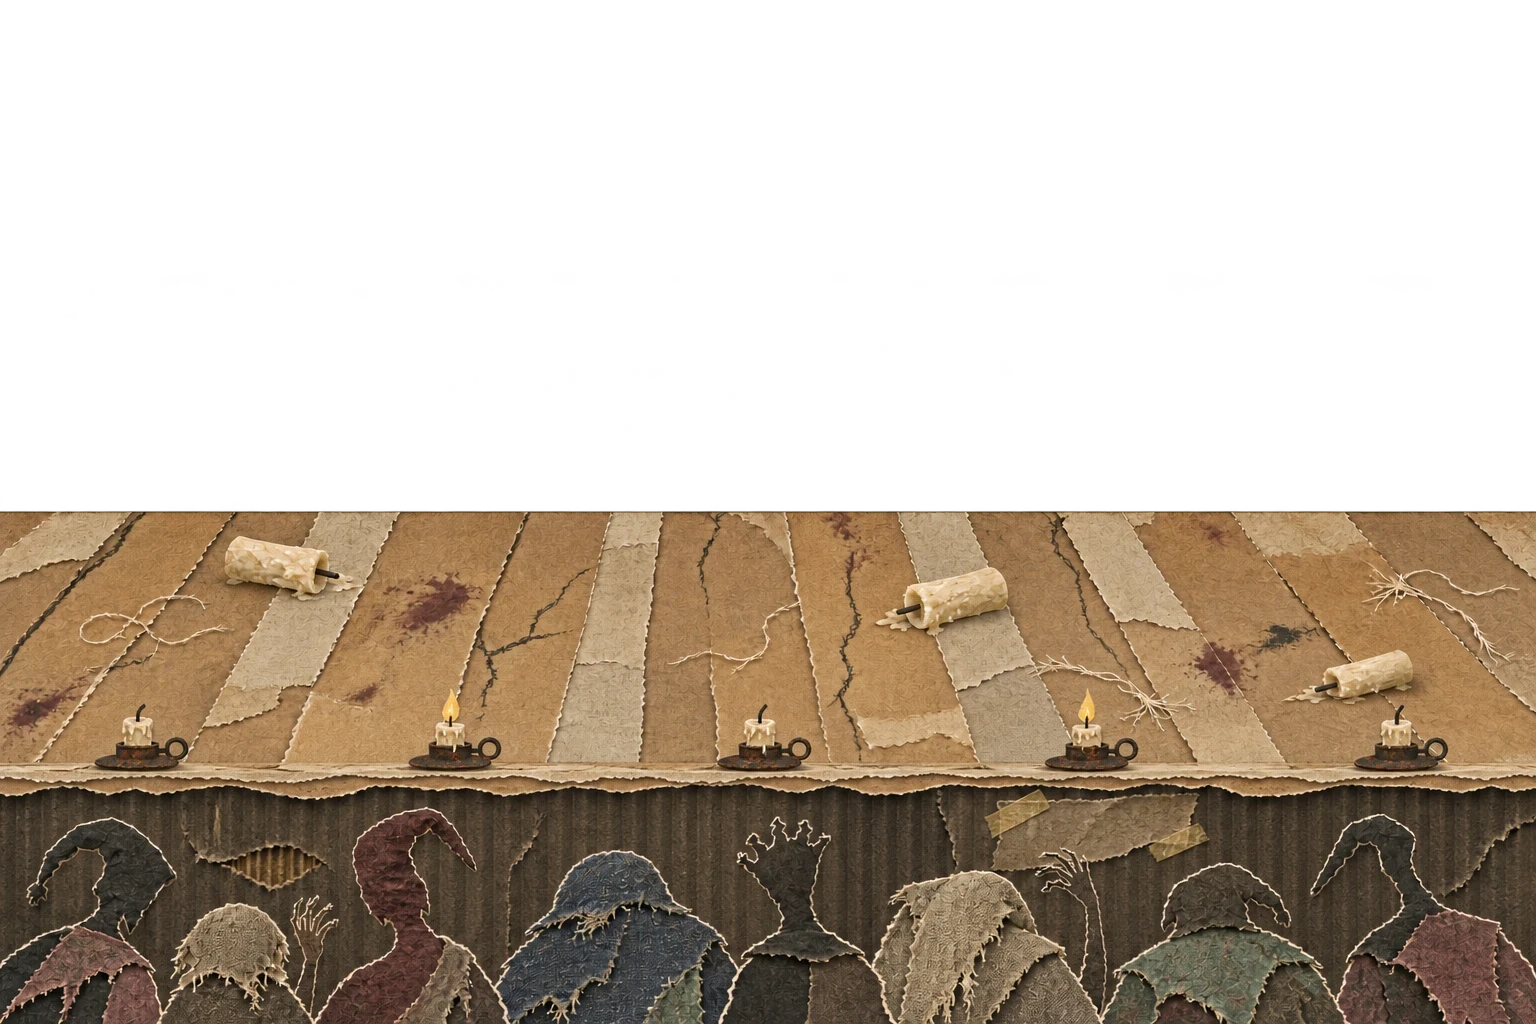
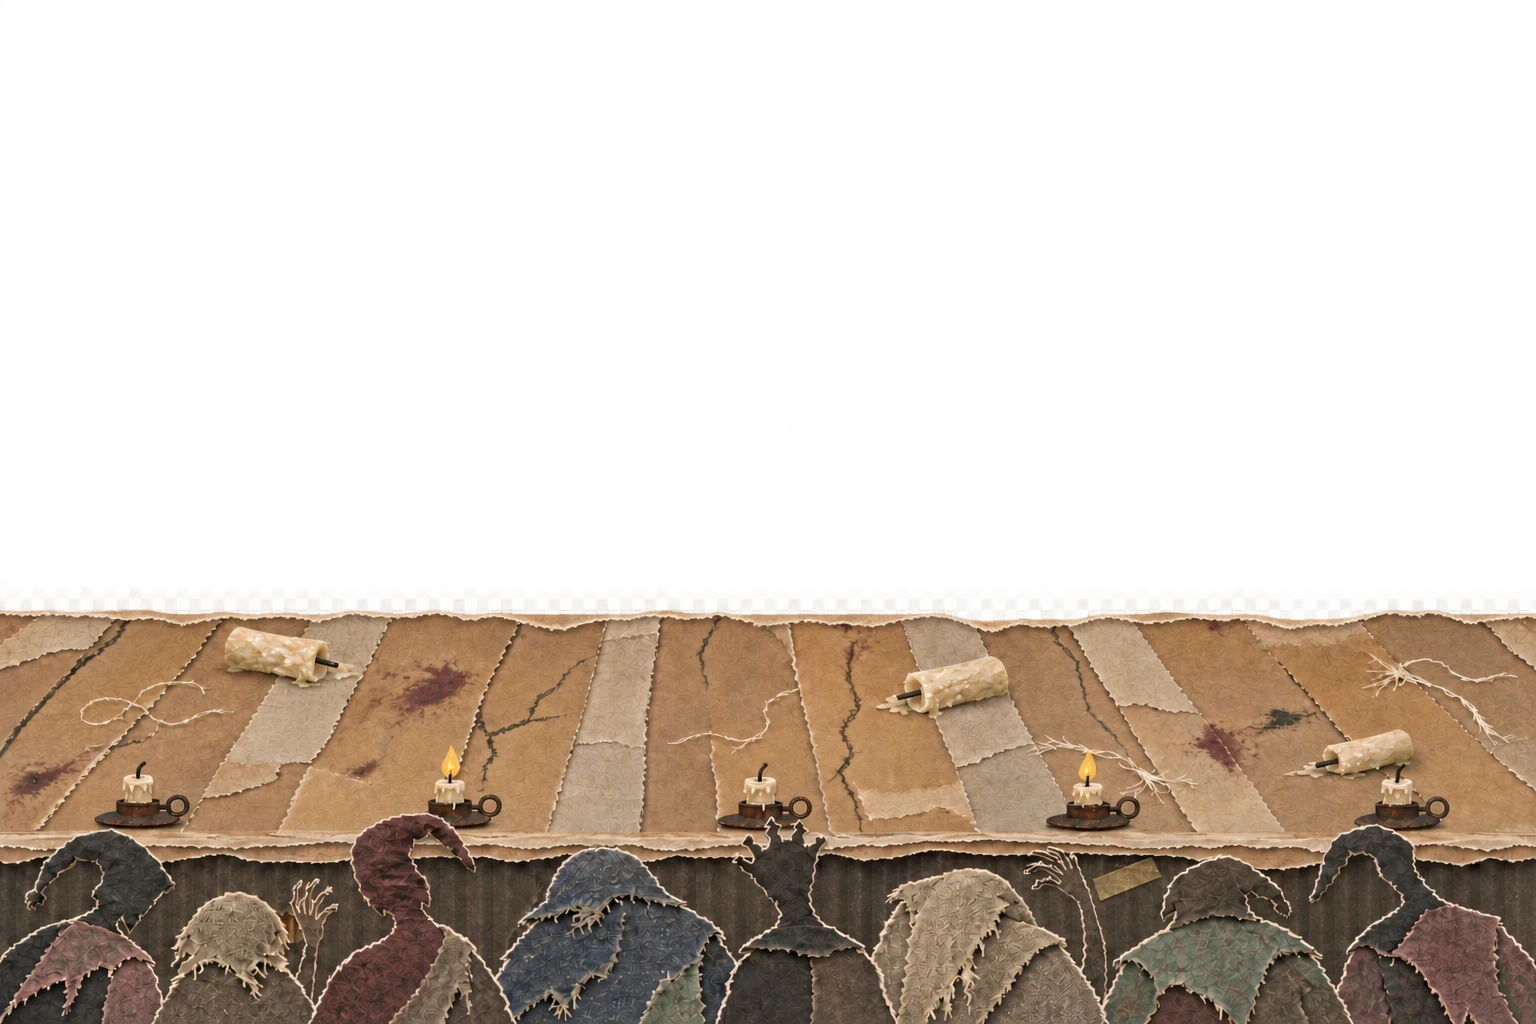
Use the shallow stage floor and size it by screen height
Replaces the floor art with a shallower stage. The floor image now
scales with the battle height so its back edge always lands on the
floor line, and the faint checker pattern on its torn back edge is
clipped off.

Claude-Session: https://claude.ai/code/session_01KyagLLv6HpteR1vMcLbRie

diff --git a/css/battle.css b/css/battle.css
@@ -168,7 +168,8 @@
 .scene-floor { position: absolute; left: 0; right: 0; bottom: 0; top: var(--floor, 46%); }
 /* 地板圖維持原比例、貼齊畫面底部；比「地板高度」更遠的部分直接藏起來，不壓扁 */
 .scene-floor { overflow: hidden; }
-.scene-floor img { position: absolute; left: 0; bottom: 0; width: 100%; height: auto; transform-origin: 50% 100%; scale: var(--depth, 1); }
+/* 地板圖的大小依畫面高度決定：舞台後緣剛好落在「地板高度」那一行，寬度不足時再放大撐滿 */
+.scene-floor img { position: absolute; left: 50%; bottom: 0; translate: -50% 0; width: auto; min-width: 100%; height: calc((100 - var(--floorv, 50)) * 1cqh / var(--rest, .5)); max-width: none; transform-origin: 50% 100%; scale: var(--depth, 1); }
 .scene-floor:not(.has) {
   background: linear-gradient(180deg, #2a1c12 0, #3a2818 2%, #24180f 30%, #0d0806 100%),
     repeating-linear-gradient(90deg, rgba(0,0,0,.25) 0 2px, transparent 2px 12%);

diff --git a/js/ui/scene.js b/js/ui/scene.js
@@ -83,7 +83,7 @@ export function makeScene(idx, scene) {
     h('div', { class: 'scene-light' }, h('i'), h('i'), h('i')),
     h('div', { class: 'parts back' }, partsOf(sc, 'back')),
     tri,
-    h('div', { class: 'scene-floor' + (floor ? ' has' : ''), style: { '--floor': `${S.floorTop}%`, '--depth': String(Math.max(100, S.floorDepth) / 100), '--horizon': String((st.floor?.horizon ?? 50) / 100) } },
+    h('div', { class: 'scene-floor' + (floor ? ' has' : ''), style: { '--floor': `${S.floorTop}%`, '--floorv': String(S.floorTop), '--rest': String(1 - (st.floor?.horizon ?? 50) / 100), '--depth': String(Math.max(100, S.floorDepth) / 100), '--horizon': String((st.floor?.horizon ?? 50) / 100) } },
       floor ? h('img', { src: floor, alt: '', draggable: false }) : null),
     h('div', { class: 'parts mid' }, partsOf(sc, 'mid')),
     h('div', { class: 'scene-motes' }));
